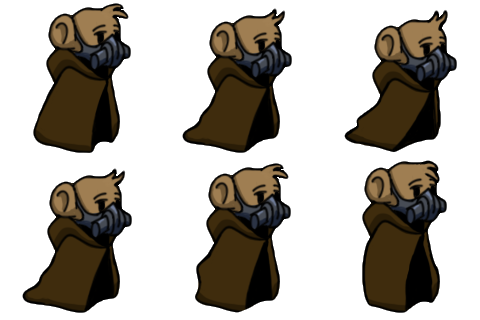
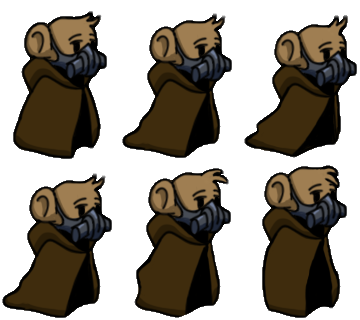
Added new mouse

diff --git a/main.py b/main.py
@@ -288,17 +288,17 @@ class Entity():
 def game():
     running = True
 
-    player = Entity((160, 160))
+    player = Entity((120, 160))
     player.x, player.y = (492, 1818)
     player_dx, player_dy = (0, 0)
     player_speed = 3
-    player_animation = [Animation("mouse-walk", (160, 160), 6, 4), Animation("mouse-front", (160, 160), 3, 8)]
+    player_animation = [Animation("mouse-walk", (120, 160), 5, 4), Animation("mouse-front", (160, 160), 3, 8)]
     player_animation_index = 0
 
     dialog = ""
 
-    npc = Entity((160, 160))
-    npc_animation = Animation("mouse-walk", (160, 160), 6, 4)
+    npc = Entity((120, 160))
+    npc_animation = Animation("mouse-walk", (120, 160), 6, 4)
     npc.x, npc.y = (492, 1600)
 
     camera_x, camera_y = (0, 0)
